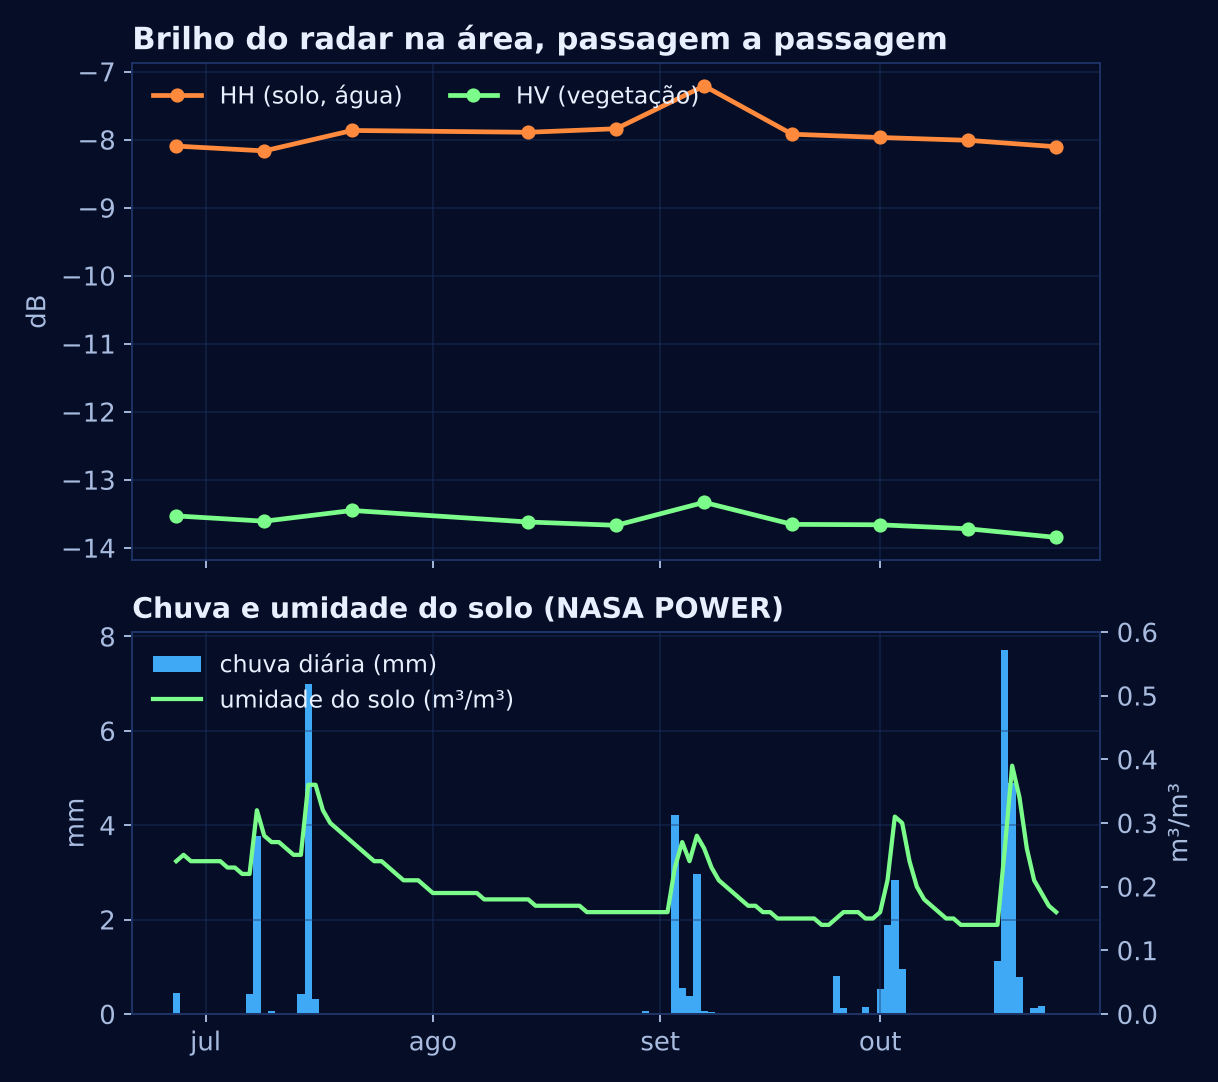
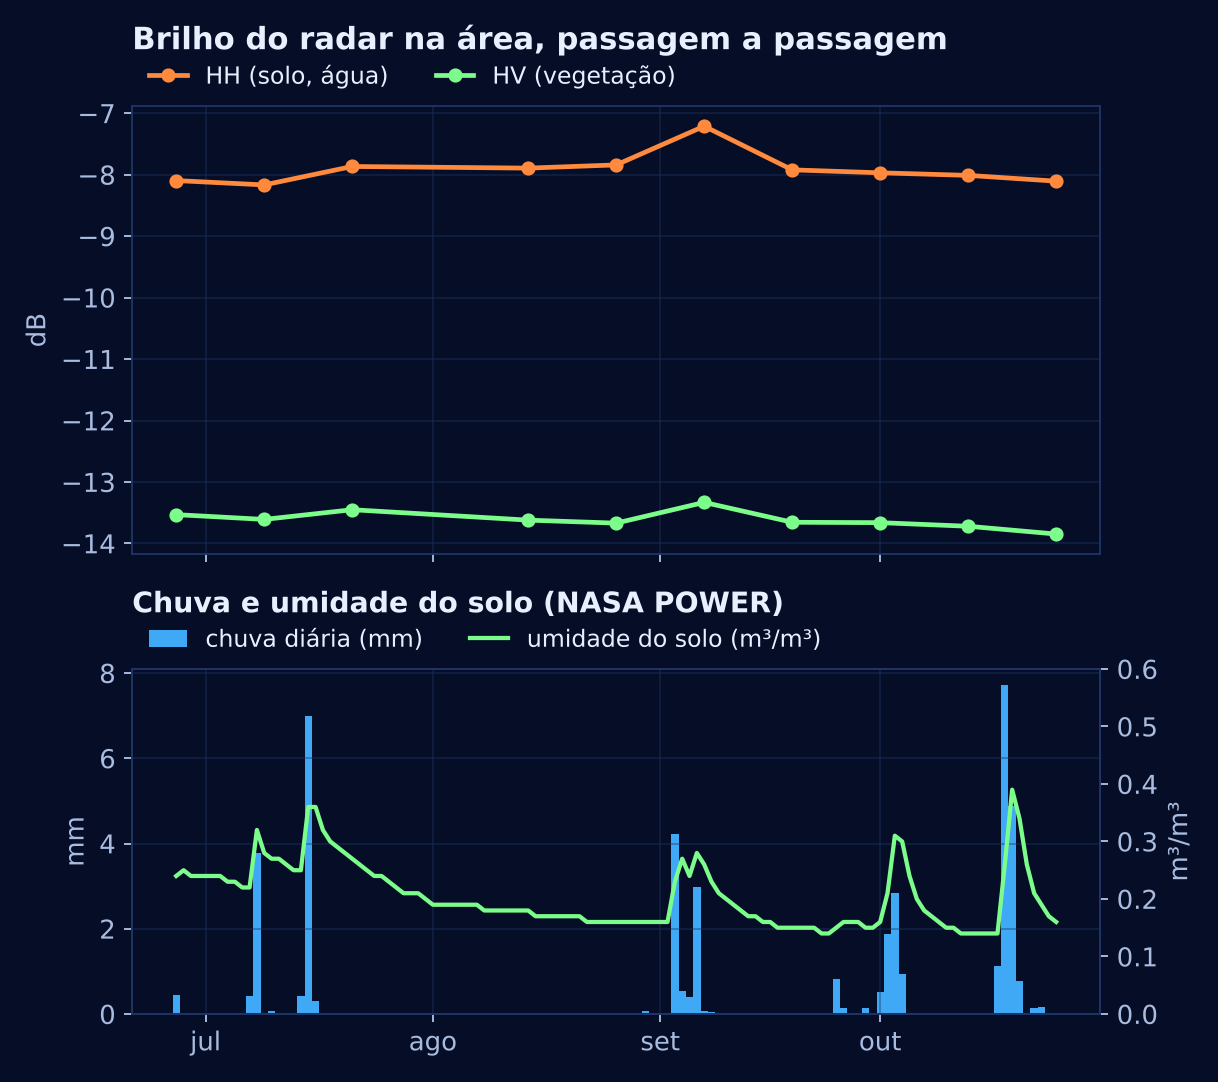
Globe: rhythm chart legends above the plots, outlined stat captions
Claude-Session: https://claude.ai/code/session_01AJLs7AUtmRdmgFSiJWNSXL

diff --git a/docs/globo/index.html b/docs/globo/index.html
@@ -41,7 +41,7 @@ nav > * { pointer-events: auto; }
 .hero h1 { margin: 0; font-size: clamp(22px, 3.4vw, 40px); font-weight: 800; color: #FFFFFF; text-shadow: 0 2px 18px #000; }
 .hero p { margin: 4px 0 0; color: var(--ink2); font-size: 14px; text-shadow: 0 1px 8px #000; }
 .stats { position: fixed; left: 50%; bottom: 18px; transform: translateX(-50%); display: flex; gap: 28px; pointer-events: none; text-align: center; }
-.stats b { display: block; font-size: 26px; color: #FFFFFF; font-weight: 800; text-shadow: 0 2px 10px #000; } .stats span { font-size: 12px; color: var(--ink2); }
+.stats b { display: block; font-size: 26px; color: #FFFFFF; font-weight: 800; text-shadow: 0 2px 10px #000; } .stats span { font-size: 12px; color: var(--ink2); -webkit-text-stroke: 0.4px #FFFFFF; paint-order: stroke fill; text-shadow: 0 0 6px #000, 0 1px 3px #000; }
 .badge { position: fixed; padding: 10px 14px; border: 1px solid var(--edge); border-radius: 10px; background: var(--panel); cursor: pointer; color: var(--ink); font: inherit; text-align: left; display: flex; gap: 10px; align-items: center; }
 .badge:hover { border-color: var(--cyan); }
 .badge .tag { font: 600 12px var(--mono); color: var(--ink2); }

diff --git a/make_guide_figures.py b/make_guide_figures.py
@@ -137,17 +137,17 @@ def rhythm(name, lang, dates, hh, hv, rain, soil, extra_title=""):
     t = [d(x) for x in dates]
     a1.plot(t, hh, "-o", color="#FF8A3D", lw=2, ms=5, label="HH (soil, water)" if lang == "en" else "HH (solo, água)")
     a1.plot(t, hv, "-o", color="#7CFC8A", lw=2, ms=5, label="HV (vegetation)" if lang == "en" else "HV (vegetação)")
-    a1.set_ylabel("dB"); a1.grid(alpha=.4); a1.legend(loc="upper left", ncol=2, fontsize=10)
-    a1.set_title(("Radar brightness of the area, pass by pass" if lang == "en" else "Brilho do radar na área, passagem a passagem") + extra_title)
+    a1.set_ylabel("dB"); a1.grid(alpha=.4); a1.legend(loc="lower left", bbox_to_anchor=(0, 1.0), ncol=2, fontsize=10, borderaxespad=0.3, handlelength=1.6)
+    a1.set_title(("Radar brightness of the area, pass by pass" if lang == "en" else "Brilho do radar na área, passagem a passagem") + extra_title, pad=24)
     rd = [d(k) for k in sorted(rain)]
     a2.bar(rd, [rain[k] for k in sorted(rain)], width=1, color="#3FA9F5", label="daily rain (mm)" if lang == "en" else "chuva diária (mm)")
     a2.set_ylabel("mm"); a2.grid(alpha=.4)
     b2 = a2.twinx(); sd = [d(k) for k in sorted(soil)]
     b2.plot(sd, [soil[k] for k in sorted(soil)], color="#7CFC8A", lw=1.8, label="soil moisture (m³/m³)" if lang == "en" else "umidade do solo (m³/m³)")
     b2.set_ylim(0, max(0.6, max(soil.values()) * 1.1)); b2.tick_params(colors=INK2); b2.set_ylabel("m³/m³", color=INK2)
-    h1, l1 = a2.get_legend_handles_labels(); h2, l2 = b2.get_legend_handles_labels(); a2.legend(h1 + h2, l1 + l2, loc="upper left", fontsize=10)
+    h1, l1 = a2.get_legend_handles_labels(); h2, l2 = b2.get_legend_handles_labels(); a2.legend(h1 + h2, l1 + l2, loc="lower left", bbox_to_anchor=(0, 1.0), ncol=2, fontsize=10, borderaxespad=0.3, handlelength=1.6)
     a2.set_xlim(t[0] - (t[1] - t[0]) / 2, t[-1] + (t[1] - t[0]) / 2); dfmt(a2, lang)
-    a2.set_title("Rain and soil moisture (NASA POWER)" if lang == "en" else "Chuva e umidade do solo (NASA POWER)", fontsize=12)
+    a2.set_title("Rain and soil moisture (NASA POWER)" if lang == "en" else "Chuva e umidade do solo (NASA POWER)", fontsize=12, pad=24)
     fig.tight_layout(); save(fig, f"{name}_rhythm", lang)
 
 
